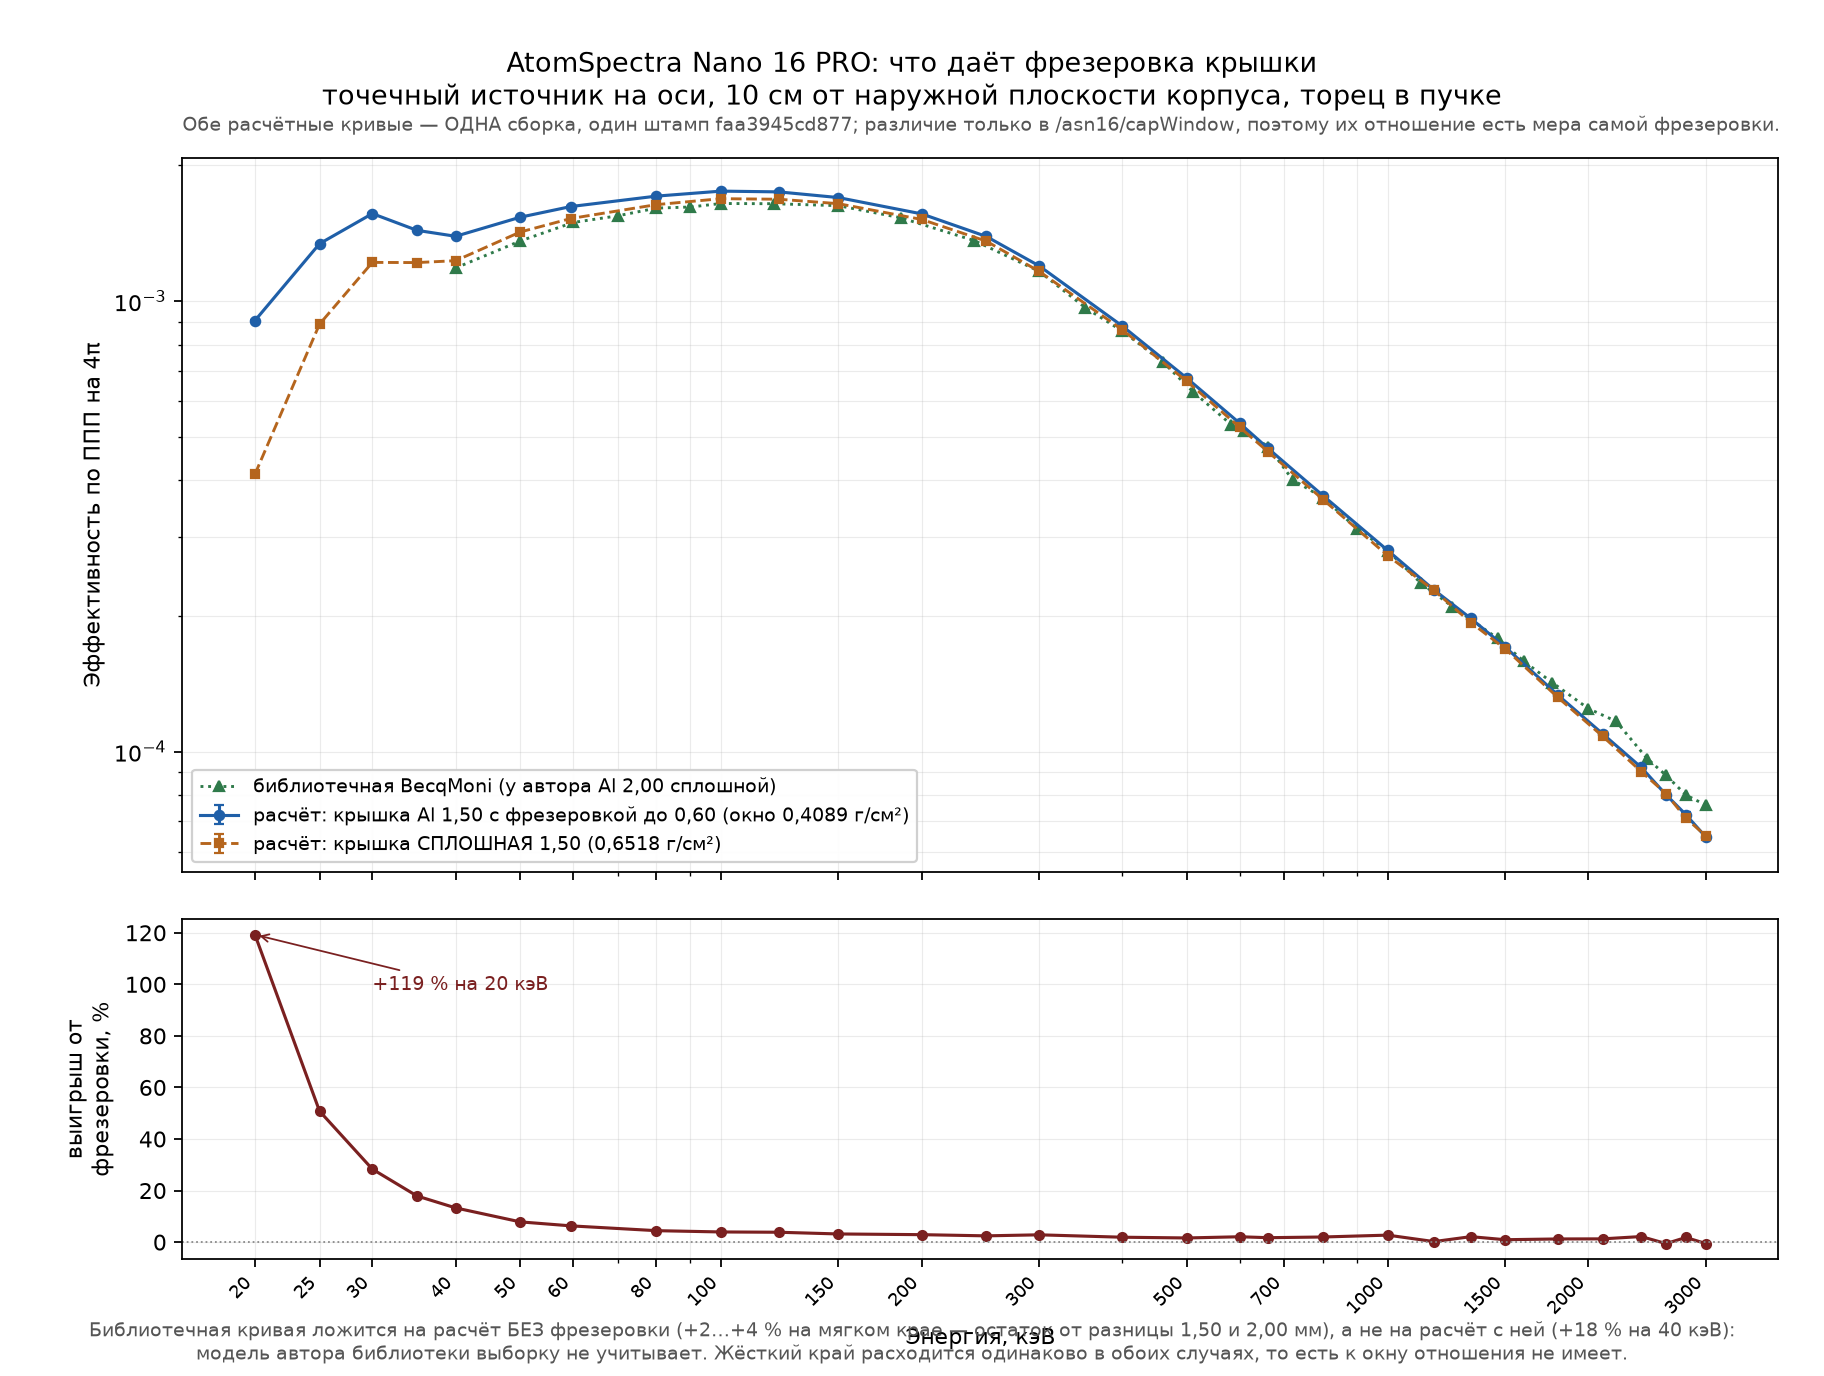
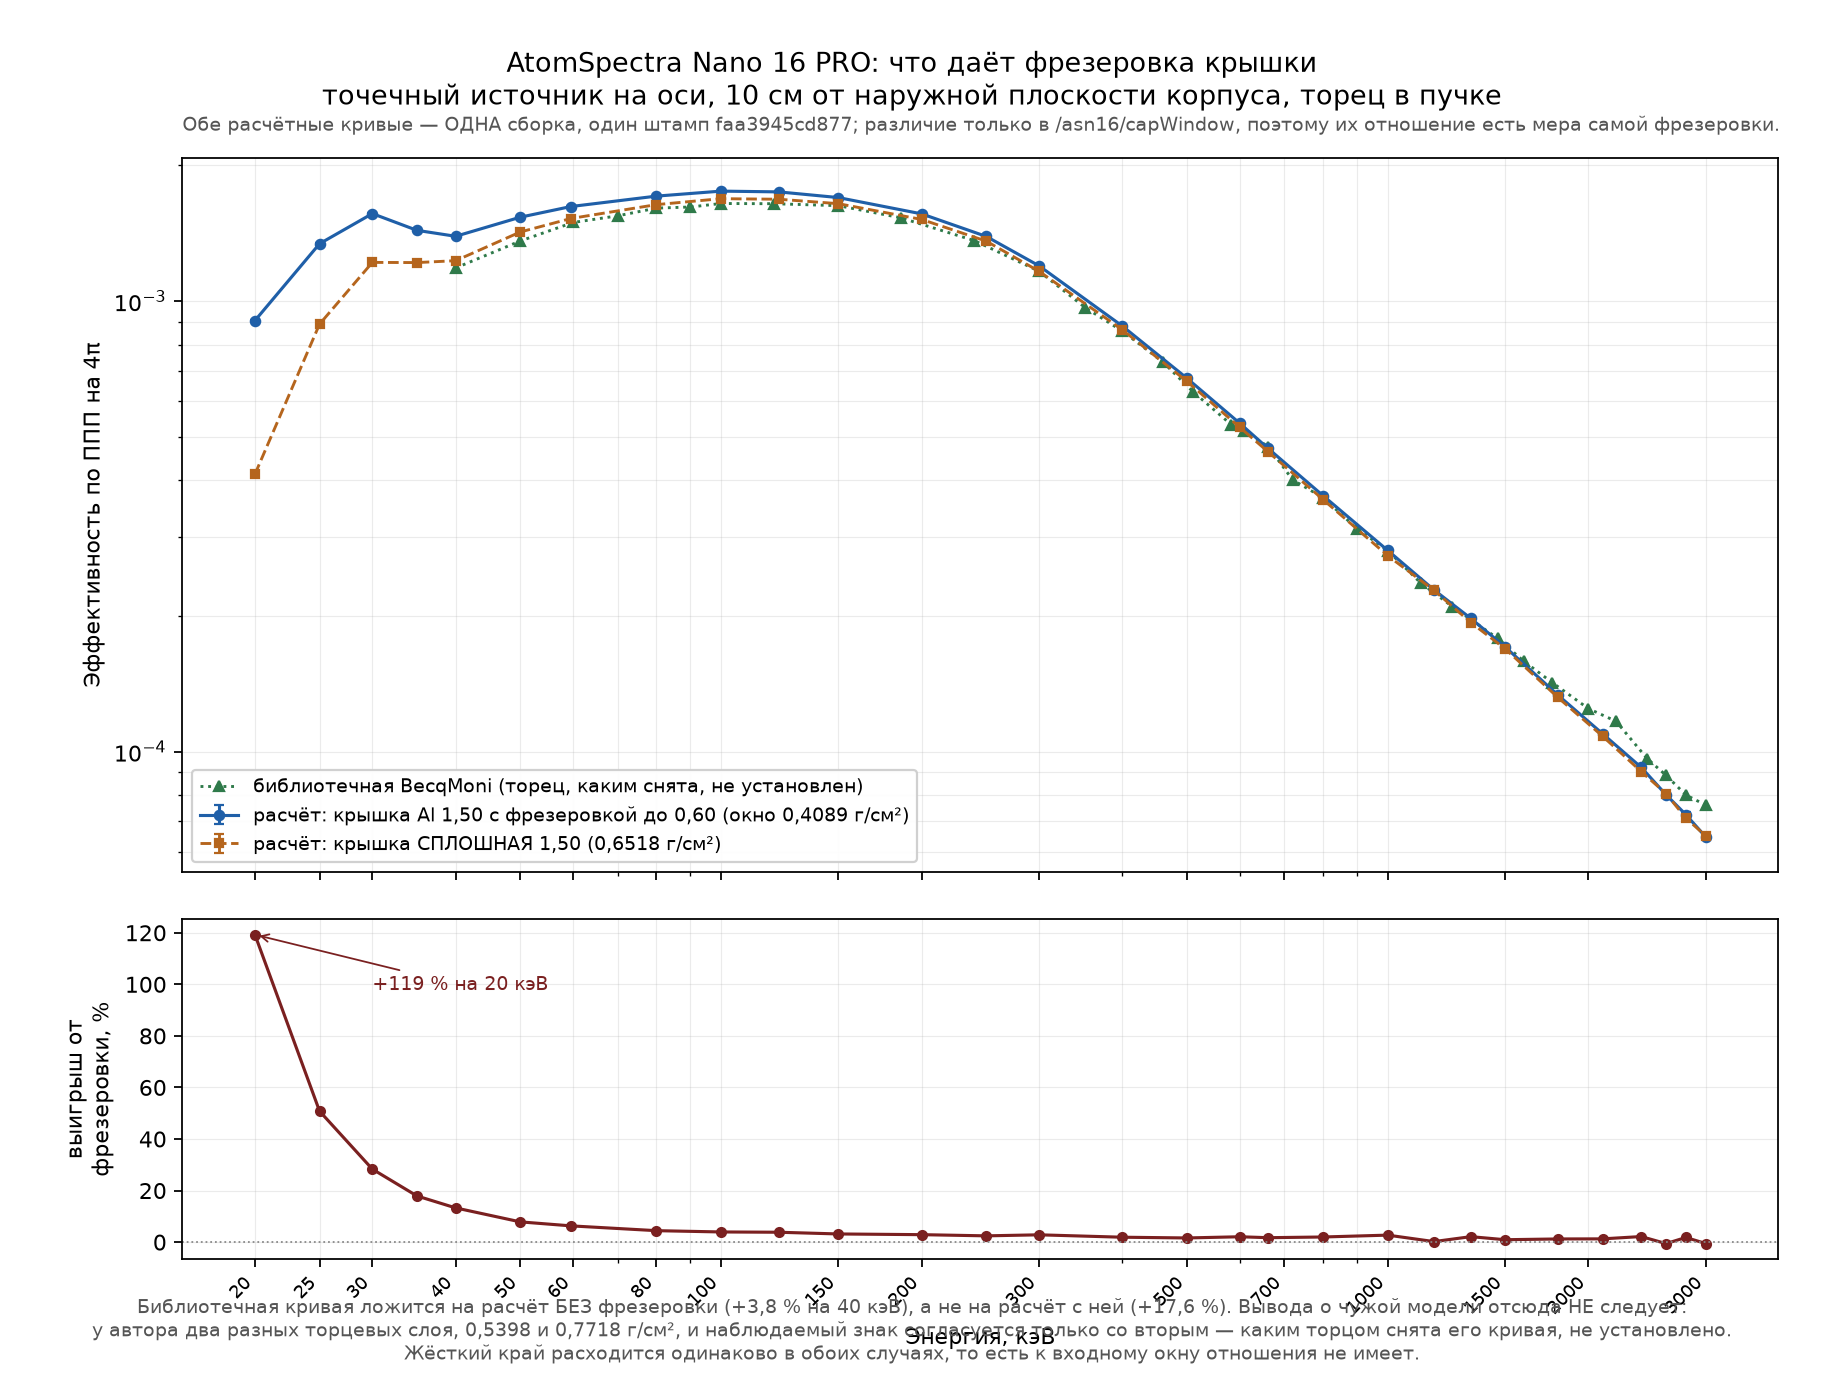
ASN16: прибор идентифицирован перепиской с продавцом; снятый вывод убран с рисунка
1. Ответ оператора на вопрос Цензора: «перепиской с продавцом». Записан дословно
   в журнал указаний (пункт 16) и разобран в geometry-source.md.

   Что из этого следует: название «Nano 16 PRO» происходит от продавца, а не из
   публичного перечня производителя, где такой позиции нет ни в каталоге, ни в
   sitemap-products.xml. Сама переписка в дереве не архивирована, поэтому
   принадлежность геометрии конкретному изделию из клона непроверяема — тот же
   класс, по которому уже отозвана сверка с записью Cs-137.

   Кривая от этого недействительной не становится: она посчитана для геометрии,
   объявленной в ASN16Detector.hh явно и целиком. Но публиковать её следует как
   относящуюся к ОБЪЯВЛЕННОЙ геометрии (CsI(Tl) 18x15x60 в алюминиевом корпусе с
   окном 0,60 мм), а название модели приводить как сообщённое продавцом.

2. Подпись рисунка nano16pro_window_effect.png несла вывод «модель автора
   библиотеки выборку не учитывает», снятый из README ещё внутренним аудитом.
   Тот же класс, что уже ловился здесь дважды: текст исправлен, а растр и
   производящий его скрипт остались с прежним утверждением. Подпись и легенда
   переписаны, рисунок перегенерирован.

   Дефект показателен: снятое утверждение пережило правку документов, потому что
   искали его грепом по тексту, а не по скриптам, которые рисуют.

Changed region(s): [[0.0625, 0.9375, 0.9375, 1.0], [0.2812, 0.5625, 0.4688, 0.5938]]

diff --git a/detectors/AtomSpectra-Nano-16-PRO/analysis/draw_window_effect.py b/detectors/AtomSpectra-Nano-16-PRO/analysis/draw_window_effect.py
@@ -5,8 +5,10 @@
 параметром `/asn16/capWindow`. Поэтому их отношение есть мера самой фрезеровки,
 а не суммы всех расхождений между двумя моделями.
 
-Библиотечная кривая наложена третьей: она отвечает на вопрос, какую из двух
-воспроизводит модель автора библиотеки.
+Библиотечная кривая наложена третьей: она показывает, какую из двух наших
+постановок воспроизводит модель автора. Вывода о самой чужой модели отсюда не
+делается — у автора два разных торцевых слоя, и каким из них снята его кривая,
+не установлено (см. README, раздел «Слепой тест»).
 
     python analysis/draw_window_effect.py
 """
@@ -77,8 +79,8 @@ def main():
                 color=C_NOWIN, ecolor=C_NOWIN, capsize=2.2,
                 label="расчёт: крышка СПЛОШНАЯ 1,50 (0,6518 г/см²)")
     ax.plot([r[0] for r in lib], [r[1] for r in lib], "^:", ms=4.6, lw=1.3,
-            color=C_LIB, label="библиотечная BecqMoni (у автора Al 2,00 "
-                               "сплошной)")
+            color=C_LIB, label="библиотечная BecqMoni (торец, каким снята, "
+                               "не установлен)")
     ax.set_xscale("log")
     ax.set_yscale("log")
     ax.set_ylabel("Эффективность по ППП на 4π")
@@ -123,12 +125,14 @@ def main():
              "фрезеровки." % stamp,
              fontsize=8.4, color="#555555", ha="left")
     fig.text(0.5, 0.012,
-             "Библиотечная кривая ложится на расчёт БЕЗ фрезеровки "
-             "(+2…+4 % на мягком крае — остаток от разницы 1,50 и 2,00 мм), а "
-             "не на расчёт с ней (+18 % на 40 кэВ):\n"
-             "модель автора библиотеки выборку не учитывает. Жёсткий край "
-             "расходится одинаково в обоих случаях, то есть к окну отношения "
-             "не имеет.",
+             "Библиотечная кривая ложится на расчёт БЕЗ фрезеровки (+3,8 % на "
+             "40 кэВ), а не на расчёт с ней (+17,6 %). Вывода о чужой модели "
+             "отсюда НЕ следует:\n"
+             "у автора два разных торцевых слоя, 0,5398 и 0,7718 г/см², и "
+             "наблюдаемый знак согласуется только со вторым — каким торцом "
+             "снята его кривая, не установлено.\n"
+             "Жёсткий край расходится одинаково в обоих случаях, то есть к "
+             "входному окну отношения не имеет.",
              fontsize=8.4, ha="center", color="#555555")
 
     os.makedirs(os.path.dirname(OUT), exist_ok=True)

diff --git a/detectors/AtomSpectra-Nano-16-PRO/reference/operator-directives.md b/detectors/AtomSpectra-Nano-16-PRO/reference/operator-directives.md
@@ -27,6 +27,7 @@
 | 13 | «кривые считай от 30 кэв» → «да» (на предложение опустить до 20–25) | ПРИНЯТО: сетка 29 узлов, нижняя граница 20 кэВ |
 | 14 | «и посчитай кривую без фрезеровки» | ПРИНЯТО: `/asn16/capWindow off`, `macros/curve_point_end10cm_nowin.mac`, кривая опубликована |
 | 15 | «профиль корпуса Атом Нано всех серий имеет верхнюю и нижнюю стенки 1.5» | ПРИНЯТО: `wFront` 1,20 → 1,50, `wBot` 2,05 → 1,50. Отменяет перенос с чертежа Nano 5 PRO |
+| 16 | «перепиской с продавцом» — ответ на вопрос, чем идентифицирован прибор как «Nano 16 PRO», раз такой позиции нет в перечне производителя | ПРИНЯТО как источник идентификации. Сама переписка в дереве не архивирована |
 
 ### Материал торцевой крышки — конфликт закрыт 06.08.2026
 
